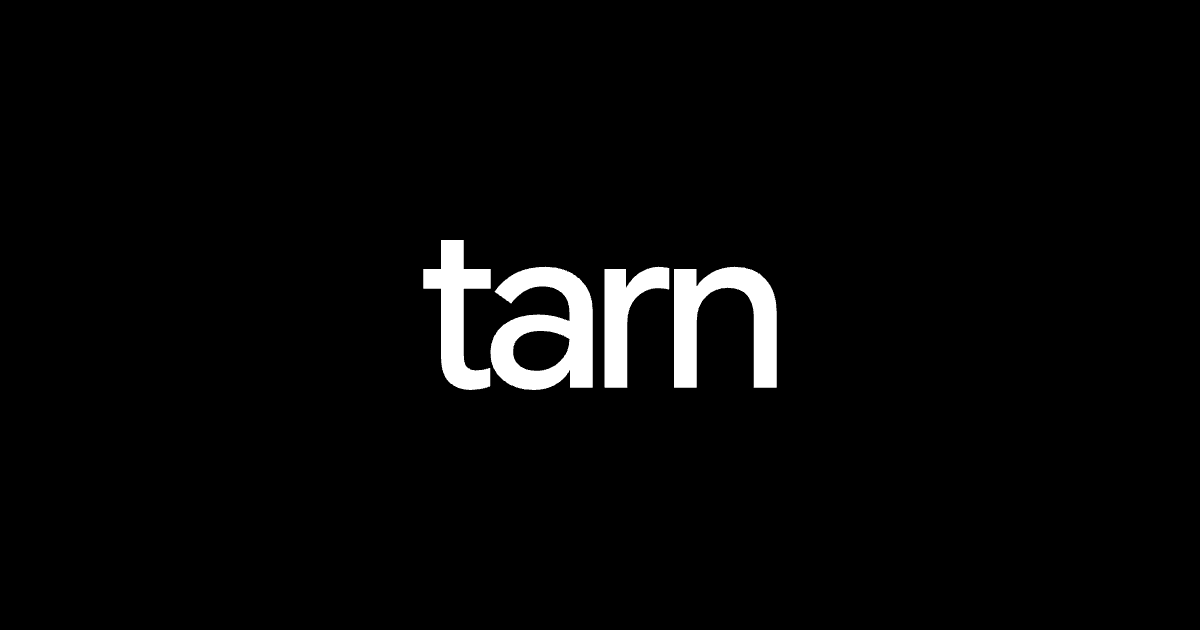
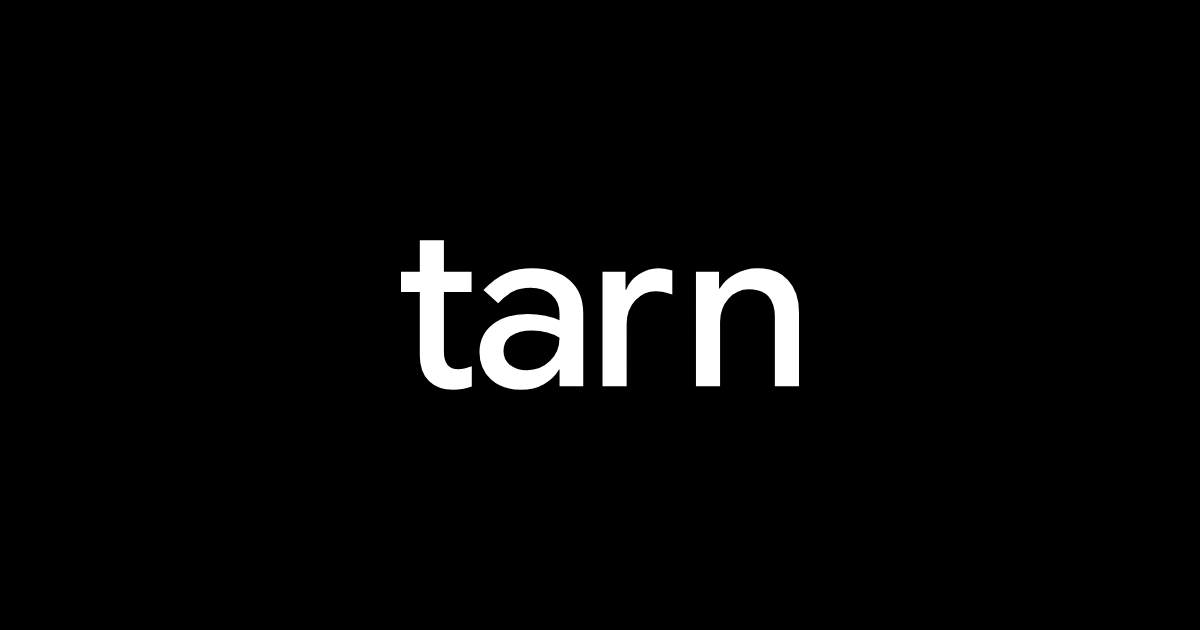
Wordmark: text optical size and a wider r–n gap, so it never reads "tam"
The wordmark is now drawn from Google Sans Flex at opsz 32 with +0.06em
before the n (was opsz 144, +0.012em). Blurred to simulate distance, the
old rn was nearly identical to an m (score 2.3, m vs n = 20); the new one
scores 12.8 and reads "tarn" from across the room. Same font, no tuning.

build_logo.py now also runs from the bundled font subset (glyphs by id,
only the axes the font has); it reproduces every existing asset byte for
byte. The ta mark is unchanged.

Changed region(s): [[0.3083, 0.3619, 0.6783, 0.6333]]

diff --git a/src/ui/wordmark.ts b/src/ui/wordmark.ts
@@ -7,12 +7,14 @@ import {html} from 'lit';
 
 // The outlined wordmark from docs/brand/assets/tarn-wordmark-mono.svg (built
 // by docs/brand/build_logo.py). Copy it from there; never retype or redraw it.
-const VIEW_BOX = '0.30 -65.40 156.60 66.35';
+const VIEW_BOX = '2.30 -65.40 178.05 66.95';
 const PATH =
-  'M21.28 0.95Q15.63 0.95 11.87 -2.35Q8.12 -5.64 8.12 -13.52V-65.4Q8.12 -65.4 8.12 -65.4Q8.12 -65.4 8.12 -65.4H18.25Q18.25 -65.4 18.25 -65.4Q18.25 -65.4 18.25 -65.4V-14.22Q18.25 -10.49 19.67 -9.1Q21.08 -7.71 23.55 -7.71Q25.03 -7.71 26.53 -7.98Q28.03 -8.24 29.97 -8.89Q29.97 -8.89 29.97 -8.89Q29.97 -8.89 29.97 -8.89V-0.71Q29.97 -0.71 29.97 -0.71Q29.97 -0.71 29.97 -0.71Q27.73 0.14 25.6 0.55Q23.48 0.95 21.28 0.95ZM0.29 -43.84Q0.29 -43.84 0.29 -43.84Q0.29 -43.84 0.29 -43.84V-52.58Q0.29 -52.58 0.29 -52.58Q0.29 -52.58 0.29 -52.58H30.18Q30.18 -52.58 30.18 -52.58Q30.18 -52.58 30.18 -52.58V-43.84Q30.18 -43.84 30.18 -43.84Q30.18 -43.84 30.18 -43.84Z ' +
-  'M49.1 0.95Q40.85 0.95 35.43 -3.57Q30.02 -8.1 30.02 -15.53Q30.02 -23.3 35.85 -27.87Q41.68 -32.43 51.2 -32.43Q55.27 -32.43 58.64 -31.63Q62.02 -30.83 65.03 -29.53V-33.58Q65.03 -38.85 61.85 -41.86Q58.67 -44.87 53.1 -44.87Q48.98 -44.87 45.69 -43.07Q42.4 -41.28 39.18 -37.28Q39.18 -37.28 39.18 -37.28Q39.18 -37.28 39.18 -37.28L31.77 -42.58Q31.77 -42.58 31.77 -42.58Q31.77 -42.58 31.77 -42.58Q36.28 -48.43 41.68 -50.98Q47.08 -53.53 54.45 -53.53Q63.7 -53.53 69.54 -48.25Q75.38 -42.97 75.38 -34.3V0Q75.38 0 75.38 0Q75.38 0 75.38 0H65.33Q65.33 0 65.33 0Q65.33 0 65.33 0V-10.33L67.5 -7.98H65.37Q62.78 -3.53 58.61 -1.29Q54.43 0.95 49.1 0.95ZM50.63 -7.53Q56.5 -7.53 60.77 -11.59Q65.03 -15.65 65.03 -21.52V-21.63Q62.7 -23.18 59.37 -24.18Q56.03 -25.18 52.38 -25.18Q46.57 -25.18 43.33 -22.79Q40.08 -20.4 40.08 -16.17Q40.08 -12.08 42.88 -9.81Q45.68 -7.53 50.63 -7.53Z ' +
-  'M80.55 0Q80.55 0 80.55 0Q80.55 0 80.55 0V-52.58Q80.55 -52.58 80.55 -52.58Q80.55 -52.58 80.55 -52.58H90.15Q90.15 -52.58 90.15 -52.58Q90.15 -52.58 90.15 -52.58V-43.62L89.59 -44.33H90.15Q93 -49.1 96.81 -51.32Q100.62 -53.53 104.57 -53.53Q105.34 -53.53 106.43 -53.42Q107.51 -53.3 109.35 -52.93Q109.35 -52.93 109.35 -52.93Q109.35 -52.93 109.35 -52.93V-43.46Q109.35 -43.46 109.35 -43.46Q109.35 -43.46 109.35 -43.46Q107.68 -43.83 106.39 -43.97Q105.11 -44.11 104.31 -44.11Q98.88 -44.11 94.78 -40.02Q90.68 -35.93 90.68 -28.62V0Q90.68 0 90.68 0Q90.68 0 90.68 0Z ' +
-  'M111.4 0V-52.58Q111.4 -52.58 111.4 -52.58Q111.4 -52.58 111.4 -52.58H121.35Q121.35 -52.58 121.35 -52.58Q121.35 -52.58 121.35 -52.58V-43.28L120.05 -44.61H121.28Q123.78 -48.52 128.32 -51.03Q132.87 -53.53 138.32 -53.53Q147.08 -53.53 152 -48.11Q156.92 -42.68 156.92 -33.64V0Q156.92 0 156.92 0Q156.92 0 156.92 0H146.78Q146.78 0 146.78 0Q146.78 0 146.78 0V-31.5Q146.78 -37.16 144.03 -40.7Q141.27 -44.24 135.16 -44.24Q129.54 -44.24 125.54 -40.28Q121.53 -36.32 121.53 -29.92V0Q121.53 0 121.53 0Q121.53 0 121.53 0H111.4Q111.4 0 111.4 0Q111.4 0 111.4 0Z';
+  'M25.62 1.57Q18.86 1.57 14.79 -2.36Q10.72 -6.29 10.72 -13.64V-65.4Q10.72 -65.4 10.72 -65.4Q10.72 -65.4 10.72 -65.4H21.49Q21.49 -65.4 21.49 -65.4Q21.49 -65.4 21.49 -65.4V-15.58Q21.49 -11.51 23.12 -9.6Q24.74 -7.69 27.91 -7.69Q29.17 -7.69 30.64 -8.02Q32.12 -8.34 33.97 -9.05Q33.97 -9.05 33.97 -9.05Q33.97 -9.05 33.97 -9.05V0.11Q33.97 0.11 33.97 0.11Q33.97 0.11 33.97 0.11Q31.64 0.9 29.72 1.23Q27.79 1.57 25.62 1.57Z ' +
+  'M2.3 -42.27Q2.3 -42.27 2.3 -42.27Q2.3 -42.27 2.3 -42.27V-51.29Q2.3 -51.29 2.3 -51.29Q2.3 -51.29 2.3 -51.29H33.86Q33.86 -51.29 33.86 -51.29Q33.86 -51.29 33.86 -51.29V-42.27Q33.86 -42.27 33.86 -42.27Q33.86 -42.27 33.86 -42.27Z ' +
+  'M56.12 1.57Q47.78 1.57 42.59 -3.07Q37.41 -7.71 37.41 -15.21Q37.41 -23.14 43.4 -27.77Q49.39 -32.4 58.9 -32.4Q63.1 -32.4 66.92 -31.59Q70.74 -30.77 73.21 -29.55V-32.62Q73.21 -37.87 69.65 -40.99Q66.09 -44.11 60.28 -44.11Q55.72 -44.11 52.34 -42.42Q48.96 -40.72 45.79 -37.18Q45.79 -37.18 45.79 -37.18Q45.79 -37.18 45.79 -37.18L39.19 -43.1Q39.19 -43.1 39.19 -43.1Q39.19 -43.1 39.19 -43.1Q44.27 -48.45 49.29 -50.64Q54.31 -52.82 61.14 -52.82Q71.7 -52.82 77.76 -47.47Q83.83 -42.12 83.83 -32.61V0Q83.83 0 83.83 0Q83.83 0 83.83 0H73.24Q73.24 0 73.24 0Q73.24 0 73.24 0V-11.76L76.16 -7.49H72.98Q70.72 -3.5 66.22 -0.97Q61.72 1.57 56.12 1.57Z ' +
+  'M58.68 -7.21Q64.84 -7.21 69.02 -11.41Q73.21 -15.61 73.21 -21.69V-21.8Q70.96 -23.3 67.73 -24.15Q64.49 -24.99 60.96 -24.99Q55.13 -24.99 51.64 -22.66Q48.16 -20.33 48.16 -15.83Q48.16 -11.88 51.09 -9.54Q54.02 -7.21 58.68 -7.21Z ' +
+  'M92.45 0Q92.45 0 92.45 0Q92.45 0 92.45 0V-51.29Q92.45 -51.29 92.45 -51.29Q92.45 -51.29 92.45 -51.29H102.74Q102.74 -51.29 102.74 -51.29Q102.74 -51.29 102.74 -51.29V-41.93L101.42 -43.19H103.03Q104.59 -47.4 108.75 -50.14Q112.9 -52.87 117.41 -52.87Q118.68 -52.87 120.09 -52.66Q121.49 -52.46 123.68 -51.78Q123.68 -51.78 123.68 -51.78Q123.68 -51.78 123.68 -51.78V-41.1Q123.68 -41.1 123.68 -41.1Q123.68 -41.1 123.68 -41.1Q120.71 -42.03 119.08 -42.3Q117.44 -42.57 116.28 -42.57Q110.83 -42.57 107.03 -38.4Q103.24 -34.22 103.24 -27.95V0Q103.24 0 103.24 0Q103.24 0 103.24 0Z ' +
+  'M134.25 0V-51.29Q134.25 -51.29 134.25 -51.29Q134.25 -51.29 134.25 -51.29H144.58Q144.58 -51.29 144.58 -51.29Q144.58 -51.29 144.58 -51.29V-42.12L143.18 -43.75H144.86Q147.18 -47.78 151.84 -50.32Q156.49 -52.87 161.59 -52.87Q170.44 -52.87 175.39 -47.61Q180.34 -42.36 180.34 -33.18V0Q180.34 0 180.34 0Q180.34 0 180.34 0H169.55Q169.55 0 169.55 0Q169.55 0 169.55 0V-31.1Q169.55 -37.15 166.64 -40.32Q163.73 -43.49 157.97 -43.49Q152.49 -43.49 148.77 -39.22Q145.04 -34.95 145.04 -28.89V0Q145.04 0 145.04 0Q145.04 0 145.04 0H134.25Q134.25 0 134.25 0Q134.25 0 134.25 0Z';
 
 /** The `tarn` wordmark in currentColor, sized by the caller's CSS height. */
 export const wordmark = (label = 'Tarn') => html`

diff --git a/docs/brand/build_logo.py b/docs/brand/build_logo.py
@@ -8,9 +8,11 @@ unless the brand itself changes. Everything that defines the marks lives in
 the constants below; docs/brand/BRAND.md explains each one.
 
 Setup (any Python 3.10+):
-    python3 -m venv .venv && .venv/bin/pip install fonttools uharfbuzz
+    python3 -m venv .venv && .venv/bin/pip install fonttools uharfbuzz brotli
 Font: Google Sans Flex variable TTF from Google Fonts (SIL OFL 1.1), e.g.
     https://github.com/google/fonts/tree/main/ofl/googlesansflex
+or the bundled subset converted to TTF (same outlines; needs `brotli`):
+    .venv/bin/python -c "from fontTools.ttLib import TTFont; f = TTFont('public/fonts/google-sans-flex-latin.woff2'); f.flavor = None; f.save('GoogleSansFlex.ttf')"
 Run:
     .venv/bin/python docs/brand/build_logo.py --font GoogleSansFlex.ttf
 """
@@ -48,18 +50,30 @@ MARK = {
 # optical size, whose wider counters keep the "a" open at toolbar size.
 MARK_SMALL = {**MARK, 'opsz': 18}
 
-# The wordmark: lowercase "tarn", with a hair more space before the "n" so
-# "rn" never reads as "m".
+# The wordmark: lowercase "tarn", drawn from the font's text optical size
+# with extra space before the "n", so "rn" never reads as "m" from a
+# distance. The display size (144) and a hair of gap read "tam" (measured
+# 2026-10-13; docs/brand/BRAND.md, "The r-n rule").
 WORDMARK = {
     'text': 'tarn',
     'weight': 500,
     'size': 100,
+    'opsz': 32,
     'tracking': -0.03,  # em, between every letter
-    'rn_gap': 0.012,  # em, added between "r" and "n" only
+    'rn_gap': 0.06,  # em, added between "r" and "n" only
     'pad': 0,  # extra space around the ink; clear space lives in BRAND.md
 }
 
 HEADER = '<!-- Tarn brand asset. Built by docs/brand/build_logo.py; see docs/brand/BRAND.md. -->\n'
+
+
+def axes(font_path, weight, opsz):
+  """The default design at this weight and optical size, limited to the axes
+  the font has (the bundled subset in public/fonts/ pins all but wght and
+  opsz to their defaults, so it draws the same outlines)."""
+  tags = {a.axisTag for a in TTFont(str(font_path))['fvar'].axes}
+  return {k: v for k, v in {**BASE_AXES, 'opsz': opsz, 'wght': weight}.items()
+          if k in tags}
 
 
 def shape(font_path, text, weight, opsz=144):
@@ -67,12 +81,14 @@ def shape(font_path, text, weight, opsz=144):
   blob = hb.Blob.from_file_path(str(font_path))
   face = hb.Face(blob)
   font = hb.Font(face)
-  font.set_variations({**BASE_AXES, 'opsz': opsz, 'wght': weight})
+  font.set_variations(axes(font_path, weight, opsz))
   buf = hb.Buffer()
   buf.add_str(text)
   buf.guess_segment_properties()
   hb.shape(font, buf, {'kern': True, 'liga': True})
-  names = [font.glyph_to_string(i.codepoint) for i in buf.glyph_infos]
+  # Glyph ids, not HarfBuzz's names: the subset has no glyph names.
+  order = TTFont(str(font_path)).getGlyphOrder()
+  names = [order[i.codepoint] for i in buf.glyph_infos]
   return [(n, p.x_advance, p.x_offset, p.y_offset)
           for n, p in zip(names, buf.glyph_positions)]
 
@@ -80,7 +96,7 @@ def shape(font_path, text, weight, opsz=144):
 def instance(font_path, weight, opsz=144):
   from fontTools.varLib.instancer import instantiateVariableFont
   font = TTFont(str(font_path))
-  return instantiateVariableFont(font, {**BASE_AXES, 'opsz': opsz, 'wght': weight})
+  return instantiateVariableFont(font, axes(font_path, weight, opsz))
 
 
 def outline(font, glyphs, size, x, baseline, tracking, extra=None):
@@ -139,8 +155,8 @@ def build_mark(font_path, out, m=MARK, suffix=''):
 
 def build_wordmark(font_path, out):
   w = WORDMARK
-  font = instance(font_path, w['weight'])
-  glyphs = shape(font_path, w['text'], w['weight'])
+  font = instance(font_path, w['weight'], w['opsz'])
+  glyphs = shape(font_path, w['text'], w['weight'], w['opsz'])
   n_index = w['text'].index('n')
   d, (x0, y0, x1, y1) = outline(font, glyphs, w['size'], 0, 0, w['tracking'],
                                 extra={n_index: w['rn_gap']})

diff --git a/docs/brand/BRAND.md b/docs/brand/BRAND.md
@@ -47,18 +47,26 @@ The primary and usually only brand element.
 
 ![wordmark](assets/png/wordmark/tarn-wordmark-black-1200.png)
 
-| Spec     | Value                                                                        |
-| -------- | ---------------------------------------------------------------------------- |
-| Text     | `tarn`, lowercase                                                            |
-| Font     | Google Sans Flex, default design: `wdth 100`, `ROND 0`, `slnt 0`, `opsz 144` |
-| Weight   | 500                                                                          |
-| Tracking | −0.03em between letters                                                      |
-| r–n gap  | +0.012em extra before the `n` (see below)                                    |
-| Files    | `assets/tarn-wordmark.svg` (black), `-white.svg`, `-mono.svg` (currentColor) |
+| Spec     | Value                                                                                                  |
+| -------- | ------------------------------------------------------------------------------------------------------ |
+| Text     | `tarn`, lowercase                                                                                      |
+| Font     | Google Sans Flex, default design: `wdth 100`, `ROND 0`, `slnt 0`, `opsz 32` (the text size, see below) |
+| Weight   | 500                                                                                                    |
+| Tracking | −0.03em between letters                                                                                |
+| r–n gap  | +0.06em extra before the `n` (see below)                                                               |
+| Files    | `assets/tarn-wordmark.svg` (black), `-white.svg`, `-mono.svg` (currentColor)                           |
 
 - **The r–n rule.** Squeezed together, `rn` reads as `m` and "tarn" becomes
-  "tam". The extra gap before the `n` prevents that. Never tighten it, and
-  never retype the wordmark as live text in a logo context; use the SVG.
+  "tam". Two settings prevent it, and both are needed: the font's text
+  optical size (`opsz 32`), which gives every letter more room than the
+  display size (`opsz 144`), and +0.06em before the `n`. Measured on
+  2026-10-13 (each word blurred as distance blurs it, its `rn` compared
+  pixel by pixel with an `m`, 0 = identical, `m` vs `n` = 20): the old
+  wordmark (`opsz 144`, +0.012em) scored 2.3 and read "tam"; a bigger gap
+  alone at `opsz 144` only reached 5.3; this one scores 12.8 and reads
+  "tarn" from across the room. Never tighten it, never go back to the
+  display size, and never retype the wordmark as live text in a logo
+  context; use the SVG.
 - **Clear space:** at least the height of the `a` on every side.
 - **Minimum size:** 48px wide on screen, 12mm in print.
 - **Color:** pure black on light backgrounds, pure white on dark ones, or one
@@ -263,9 +271,13 @@ docs/brand/
 To regenerate (only if the brand changes, with the owner's approval):
 
 ```bash
-python3 -m venv .venv && .venv/bin/pip install fonttools uharfbuzz
+python3 -m venv .venv && .venv/bin/pip install fonttools uharfbuzz brotli
 .venv/bin/python docs/brand/build_logo.py --font path/to/GoogleSansFlex[ROND,opsz,slnt,wdth,wght].ttf
 ```
+
+The bundled subset in `public/fonts/` draws the same outlines (verified
+byte for byte on 2026-10-13); the script's docstring shows how to convert it
+to a TTF.
 
 The script shapes text with HarfBuzz, so kerning matches what browsers draw,
 then outlines it with fontTools. Re-export the PNGs from the SVGs afterward at
@@ -298,23 +310,26 @@ background works), and copy the extension set into `public/action/` and
 
 Everything below was shown to the owner on 2026-10-10 and 2026-10-11.
 
-| Option                                        | Outcome                 | Why                                                             |
-| --------------------------------------------- | ----------------------- | --------------------------------------------------------------- |
-| Albert Sans wordmark                          | Replaced                | The owner preferred Google Sans Flex once it proved legal       |
-| Google Sans Flex, roundness 60 ("soft")       | **Rejected**            | The owner: default only, not soft                               |
-| "Still" symbol (half sun over its reflection) | Retired                 | The owner chose text over a pictorial symbol                    |
-| Glowing horizon line icon (the original)      | Retired                 | Read as a minus sign                                            |
-| Wordmark with an underline                    | Rejected                | Reads as a link; as an icon it shrinks to a minus sign          |
-| Plain `t` in a square                         | Not adopted             | Clear, but generic                                              |
-| `ta / rn` stacked (American Express style)    | Not adopted             | Great at 128px, mush at 16px; `rn` reads `m`                    |
-| `ta / rn` outlined                            | Rejected                | Thin strokes vanish below 48px                                  |
-| `tarn` bleeding off the square                | Rejected                | Reads "tam"                                                     |
-| `t` or `ta` at a waterline with a reflection  | Rejected                | The `t` reads as a cross                                        |
-| Glacier-blue mark, blue-grey (Granite) ink    | Replaced 2026-10-12     | The owner: black and white, not grey-ish                        |
-| Small optical size (opsz 18) for 16–32px      | Adopted 2026-10-12      | Keeps the `a` open in the toolbar                               |
-| **`ta`, `a` cut in half**                     | **Adopted**             | The owner: "super sick". Bold at 16px, abstract, still the name |
-| Pearl iridescent scene                        | **Rejected**            | Washed out                                                      |
-| Dispersed-light prism scene (light and dark)  | **Rejected**            | The owner: forget prism entirely                                |
-| Full rainbow, rainbow UI glow                 | Rejected                | Loud, reads as an AI feature                                    |
-| All caps TARN                                 | Rejected                | Loud; Google never caps product names                           |
-| Dark-first brand                              | Replaced by light first | Matches the browser around the tab                              |
+| Option                                        | Outcome                 | Why                                                                |
+| --------------------------------------------- | ----------------------- | ------------------------------------------------------------------ |
+| Albert Sans wordmark                          | Replaced                | The owner preferred Google Sans Flex once it proved legal          |
+| Google Sans Flex, roundness 60 ("soft")       | **Rejected**            | The owner: default only, not soft                                  |
+| "Still" symbol (half sun over its reflection) | Retired                 | The owner chose text over a pictorial symbol                       |
+| Glowing horizon line icon (the original)      | Retired                 | Read as a minus sign                                               |
+| Wordmark with an underline                    | Rejected                | Reads as a link; as an icon it shrinks to a minus sign             |
+| Plain `t` in a square                         | Not adopted             | Clear, but generic                                                 |
+| `ta / rn` stacked (American Express style)    | Not adopted             | Great at 128px, mush at 16px; `rn` reads `m`                       |
+| `ta / rn` outlined                            | Rejected                | Thin strokes vanish below 48px                                     |
+| `tarn` bleeding off the square                | Rejected                | Reads "tam"                                                        |
+| `t` or `ta` at a waterline with a reflection  | Rejected                | The `t` reads as a cross                                           |
+| Glacier-blue mark, blue-grey (Granite) ink    | Replaced 2026-10-12     | The owner: black and white, not grey-ish                           |
+| Small optical size (opsz 18) for 16–32px      | Adopted 2026-10-12      | Keeps the `a` open in the toolbar                                  |
+| Wordmark at `opsz 144`, +0.012em before `n`   | Replaced 2026-10-13     | The owner: "looks like tam in far distance". Measured: it did      |
+| Renaming (loch, lampi, kelda) or a new font   | Not adopted 2026-10-13  | The owner keeps the name; a fix inside Google Sans Flex was enough |
+| Wordmark at `opsz 32`, +0.06em before `n`     | **Adopted** 2026-10-13  | Reads "tarn" far away and keeps today's look ("B" of four)         |
+| **`ta`, `a` cut in half**                     | **Adopted**             | The owner: "super sick". Bold at 16px, abstract, still the name    |
+| Pearl iridescent scene                        | **Rejected**            | Washed out                                                         |
+| Dispersed-light prism scene (light and dark)  | **Rejected**            | The owner: forget prism entirely                                   |
+| Full rainbow, rainbow UI glow                 | Rejected                | Loud, reads as an AI feature                                       |
+| All caps TARN                                 | Rejected                | Loud; Google never caps product names                              |
+| Dark-first brand                              | Replaced by light first | Matches the browser around the tab                                 |

diff --git a/CHANGELOG.md b/CHANGELOG.md
@@ -52,3 +52,8 @@ follow [Semantic Versioning](https://semver.org/).
   long-lived tabs, self-healing warm process.
 - Take-over page that switches off other new-tab extensions (optional
   `management` permission) and restores them when Tarn is turned off.
+
+### Changed
+
+- The wordmark reads "tarn" from a distance, not "tam": it is drawn from
+  Google Sans Flex's text size with a little more room before the n.
